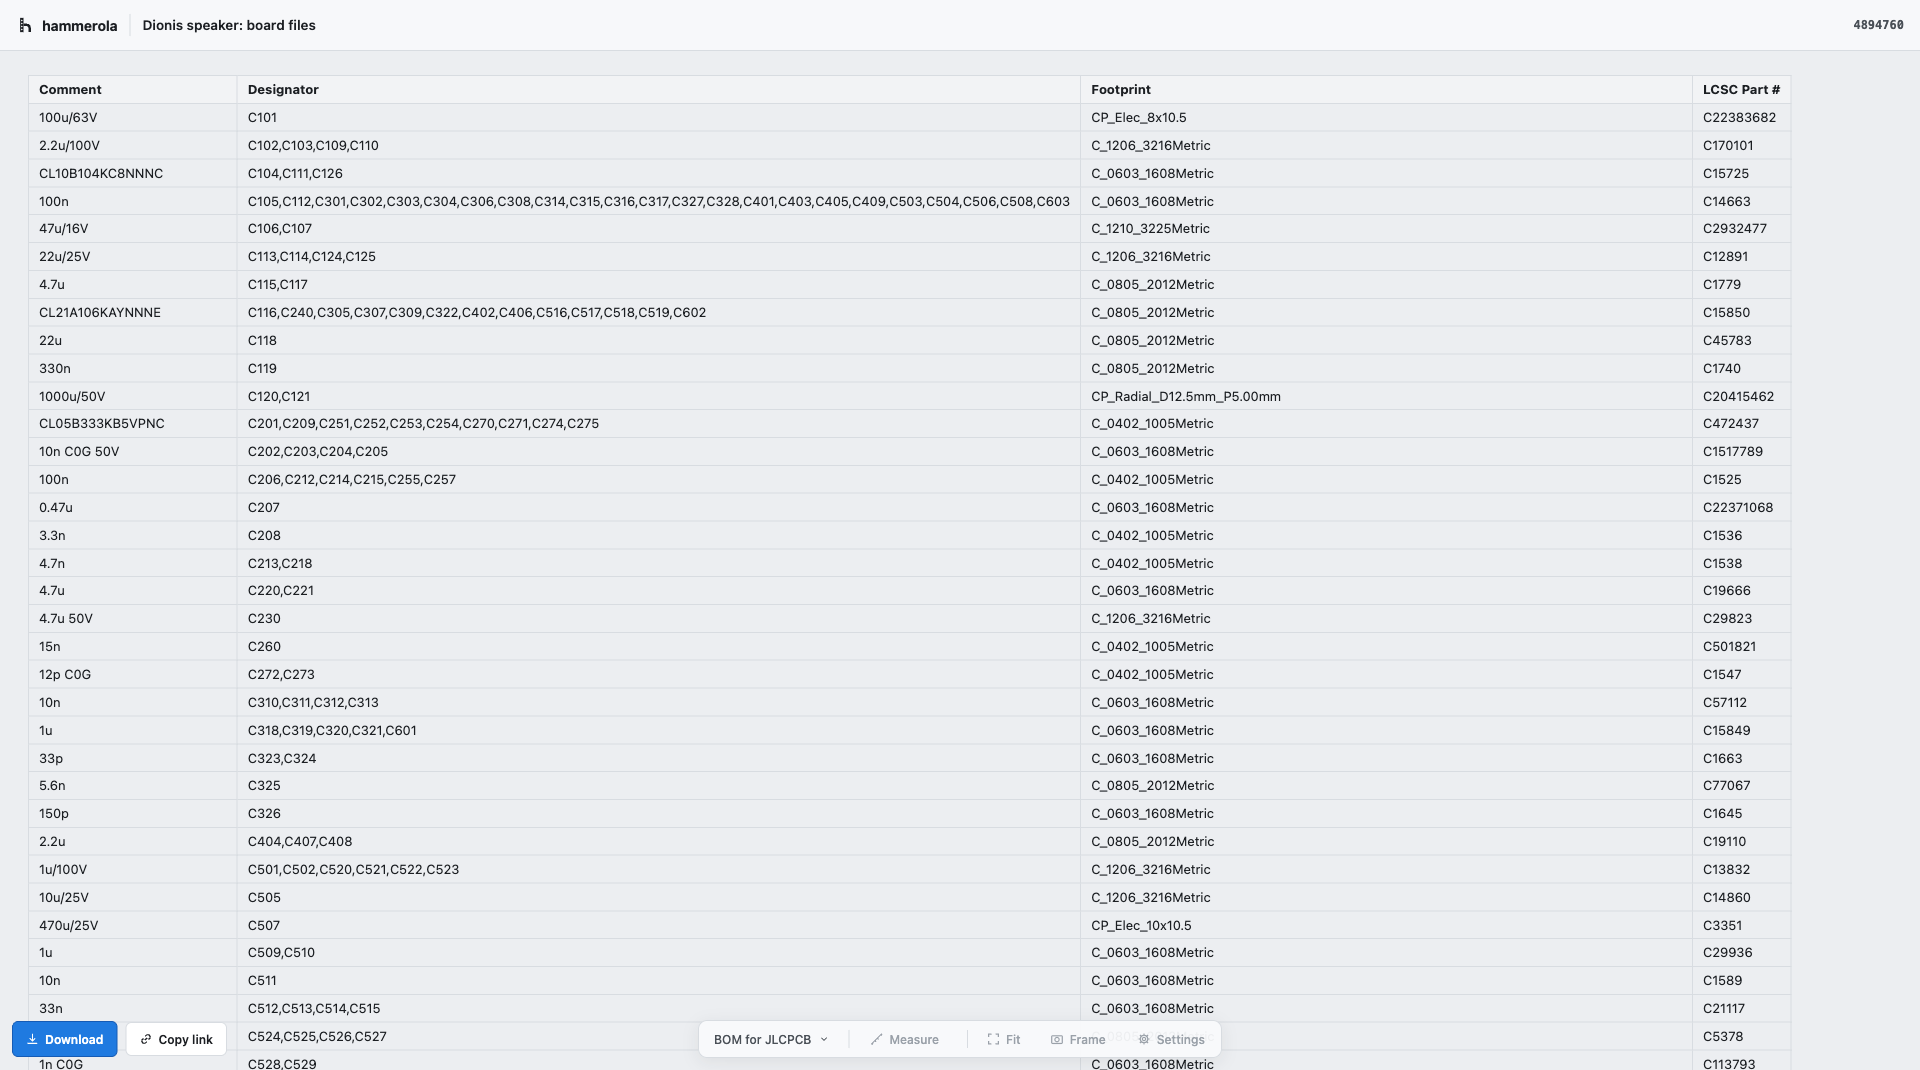
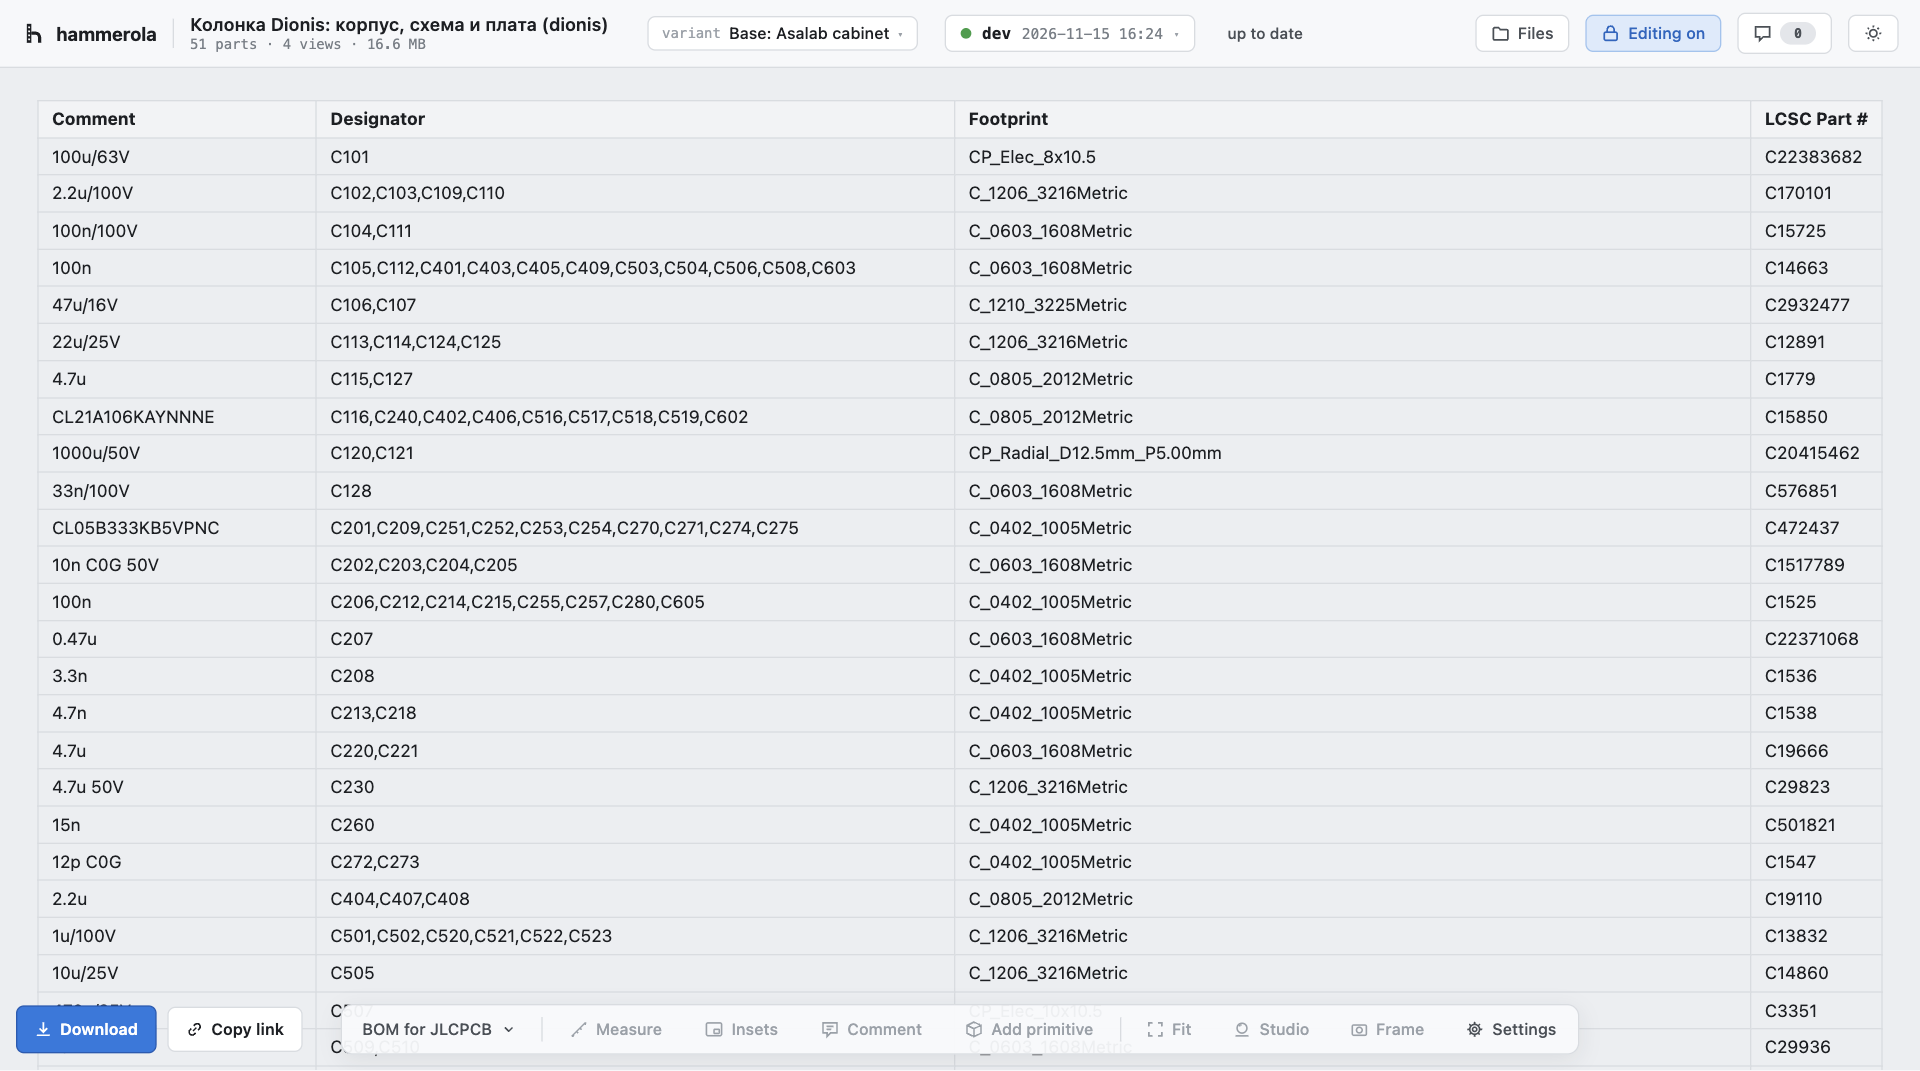
docs(readme): retake the screenshots on the current page
The eight pictures were taken in October: the header still had the
Downloads menu, the bottom bar had no Studio or Insets, and the print
view's picture showed Downloads as what the bed hands out. Retaken on
the Dionis speaker at the same size; the print view now shows the
plate's row and the part's menu with its files, and its caption says so.

diff --git a/README.md b/README.md
@@ -101,7 +101,7 @@ has it can download a listed KiCad design whole and edit it. The repository a
 revision was built from is on the hub too, but behind the secret, and so is the
 list of what exists on the hub at all.
 
-![The same revision as it goes on the bed, and what it hands out](docs/images/print-view.png)
+![The same revision as it goes on the bed: the plate's row hands out its 3MF, the part's menu its STEP, STL and 3MF](docs/images/print-view.png)
 
 ## Publishing a model
 
